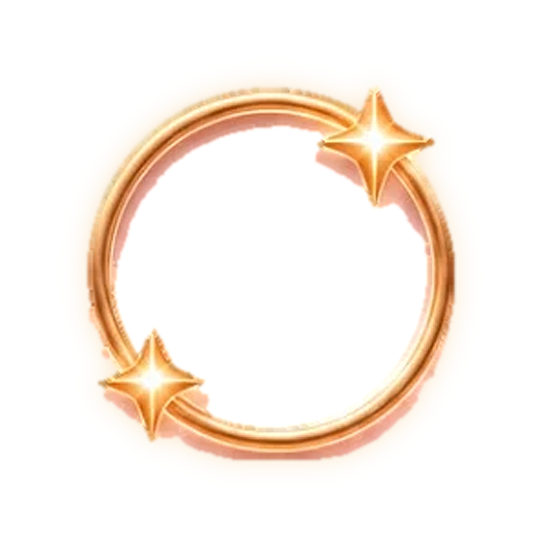
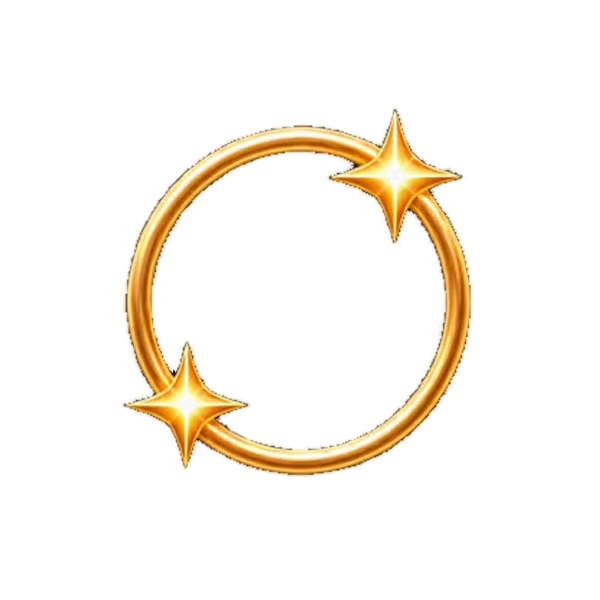
App: Rahmen aus der schärferen Vorlage auf Schwarz neu geschnitten
Ohne Saum auf hell und dunkel, das Foto nimmt jetzt die Hälfte des Bildes ein, damit die Krone von Face Legend Platz hat.

Changed region(s): [[0.1481, 0.1481, 0.8593, 0.8593]]

diff --git a/src/components/frame-ring.tsx b/src/components/frame-ring.tsx
@@ -9,7 +9,7 @@ import { radius, space, usePalette } from '@/lib/theme';
 import { Button, Txt } from './ui';
 
 /** The photo's diameter as a share of the frame's picture (all pictures in assets/images/frames are made for this). */
-const PHOTO_SHARE = 0.595;
+const PHOTO_SHARE = 0.5;
 const SERIF = Platform.select({ ios: 'Georgia', android: 'serif', default: 'Georgia, serif' });
 
 /** `size`: the whole picture with everything around the photo; the photo (`children`) takes the round opening in its middle. */
@@ -51,8 +51,8 @@ export function FramesPopup({ days, initial, onClose }: { days: number; initial:
               const here = f.level === current;
               return (
                 <View key={f.name} style={{ flexDirection: 'row', alignItems: 'center', gap: space.m, paddingVertical: space.xs, paddingLeft: space.xs, paddingRight: space.m, borderRadius: radius.l, borderWidth: 1, borderColor: here ? p.accent : p.line, backgroundColor: here ? p.accentSoft : 'transparent' }}>
-                  <FrameRing frame={f} size={88}>
-                    <FrameInitial letter={initial} size={24} />
+                  <FrameRing frame={f} size={92}>
+                    <FrameInitial letter={initial} size={22} />
                   </FrameRing>
                   <View style={{ width: 1, alignSelf: 'stretch', marginVertical: space.m, backgroundColor: p.line }} />
                   <View style={{ flex: 1, gap: 1 }}>

diff --git a/src/app/(tabs)/profil/index.tsx b/src/app/(tabs)/profil/index.tsx
@@ -74,7 +74,7 @@ export default function ProfileScreen() {
     <Screen tour="profil" contentStyle={{ paddingTop: insets.top + space.l, gap: space.xl }}>
       <TourTarget id="profil.frame" style={{ gap: space.m, alignItems: 'center' }}>
         <Pressable accessibilityRole="button" accessibilityLabel="Profilfoto ändern" onPress={photoMenu}>
-          <FrameRing frame={frame} size={164}>
+          <FrameRing frame={frame} size={176}>
             {me?.avatarUrl ? (
               <Image source={{ uri: api.url(me.avatarUrl), headers: api.mediaHeaders() }} style={StyleSheet.absoluteFill} contentFit="cover" />
             ) : (
@@ -82,7 +82,7 @@ export default function ProfileScreen() {
             )}
             {busy ? <View style={[StyleSheet.absoluteFill, { alignItems: 'center', justifyContent: 'center', backgroundColor: 'rgba(0,0,0,0.35)' }]}><ActivityIndicator color="#FFFFFF" /></View> : null}
           </FrameRing>
-          <Txt variant="small" color={p.accent} style={{ textAlign: 'center' }}>Foto ändern</Txt>
+          <Txt variant="small" color={p.accent} style={{ textAlign: 'center', marginTop: -space.m }}>Foto ändern</Txt>
         </Pressable>
         <View style={{ gap: 2, alignItems: 'center' }}>
           <Txt variant="display" style={{ textAlign: 'center' }}>{name}</Txt>

diff --git a/src/screens/routine-session.tsx b/src/screens/routine-session.tsx
@@ -357,7 +357,7 @@ export function RoutineSession({ routine, practice }: { routine: MemberRoutine; 
               )}
               {newFrame ? (
                 <View style={{ alignSelf: 'stretch', flexDirection: 'row', alignItems: 'center', gap: space.m, padding: space.m, borderRadius: radius.l, backgroundColor: p.accentSoft }}>
-                  <FrameRing frame={newFrame} size={84}><Ionicons name="person" size={24} color={p.accent} /></FrameRing>
+                  <FrameRing frame={newFrame} size={96}><Ionicons name="person" size={24} color={p.accent} /></FrameRing>
                   <View style={{ flex: 1, gap: 2 }}>
                     <Txt variant="caption" color={p.accent}>Neuer Rahmen</Txt>
                     <Txt variant="heading">{newFrame.name}: {newFrame.line}</Txt>
